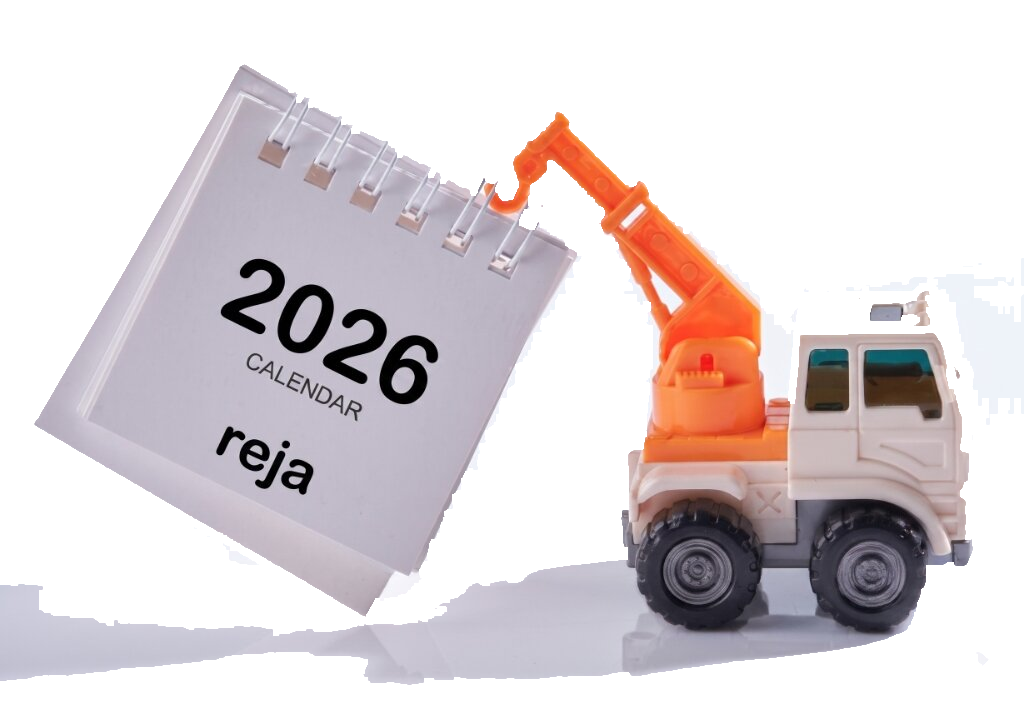
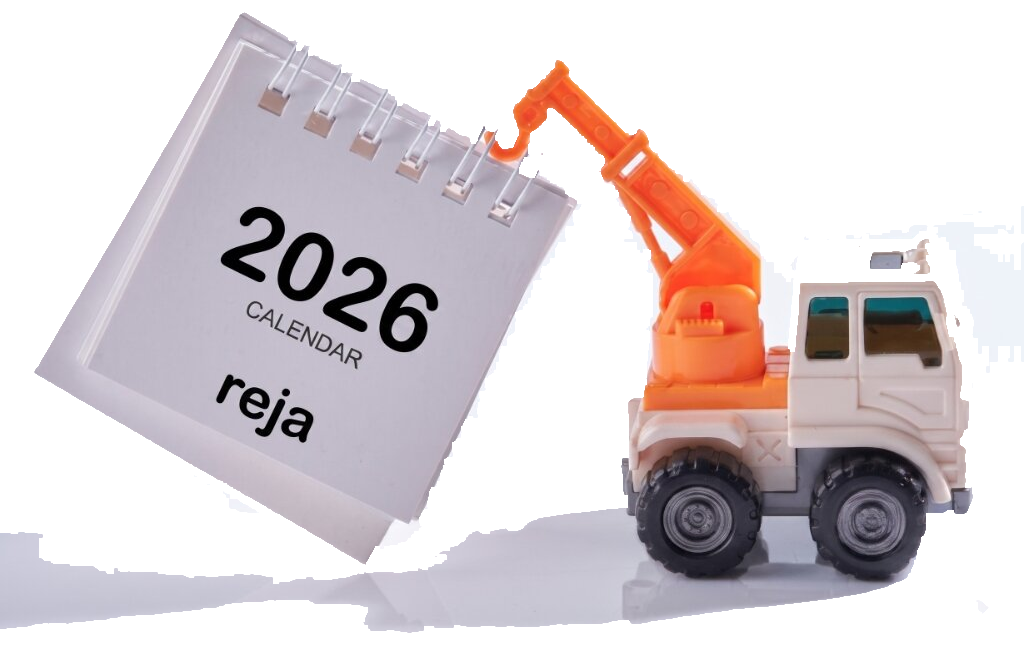
dizayn: Kundalik kartalari ichidagi rasmlar kattalashtirildi va bo'shliqlar yo'qotildi

diff --git a/lib/screens/home_screen.dart b/lib/screens/home_screen.dart
@@ -511,10 +511,14 @@ class _DailyBtn extends StatelessWidget {
             // chetlarini QIRQIB tashlaydi.
             if (bgImage != null)
               Padding(
-                // Pastdagi nom tasmasi ostida qolmasligi uchun pastdan
-                // ko'proq joy qoldiriladi.
-                padding: const EdgeInsets.fromLTRB(6, 7, 6, 33),
-                child: Image.asset(bgImage!, fit: BoxFit.contain),
+                // Nom tasmasi va karta chetlariga moslangan optimallashtirilgan padding:
+                // rasm kartani maksimal to'ldiradi va ortiqcha bo'shliqlar yo'qoladi.
+                padding: const EdgeInsets.fromLTRB(4, 10, 4, 30),
+                child: Image.asset(
+                  bgImage!,
+                  fit: BoxFit.contain,
+                  alignment: Alignment.center,
+                ),
               )
             else
               Container(

diff --git a/scripts/rasm_fonini_tozalash.py b/scripts/rasm_fonini_tozalash.py
@@ -146,6 +146,16 @@ def fonni_ajrat(yol: Path, bagrilik: int = BAGRILIK) -> tuple[Path, float]:
 
     im.putalpha(alpha)
 
+    # Predmet atrofidagi bo'sh shaffof joylarni qirqib tashlash (bo'shliq holatining oldini olish)
+    bbox = im.getbbox()
+    if bbox:
+        margin = 12
+        left = max(0, bbox[0] - margin)
+        top = max(0, bbox[1] - margin)
+        right = min(im.width, bbox[2] + margin)
+        bottom = min(im.height, bbox[3] + margin)
+        im = im.crop((left, top, right, bottom))
+
     natija = yol.with_name(yol.stem + "_shaffof.png")
     im.save(natija, "PNG", optimize=True)
     return natija, fon_soni / (w * h) * 100
